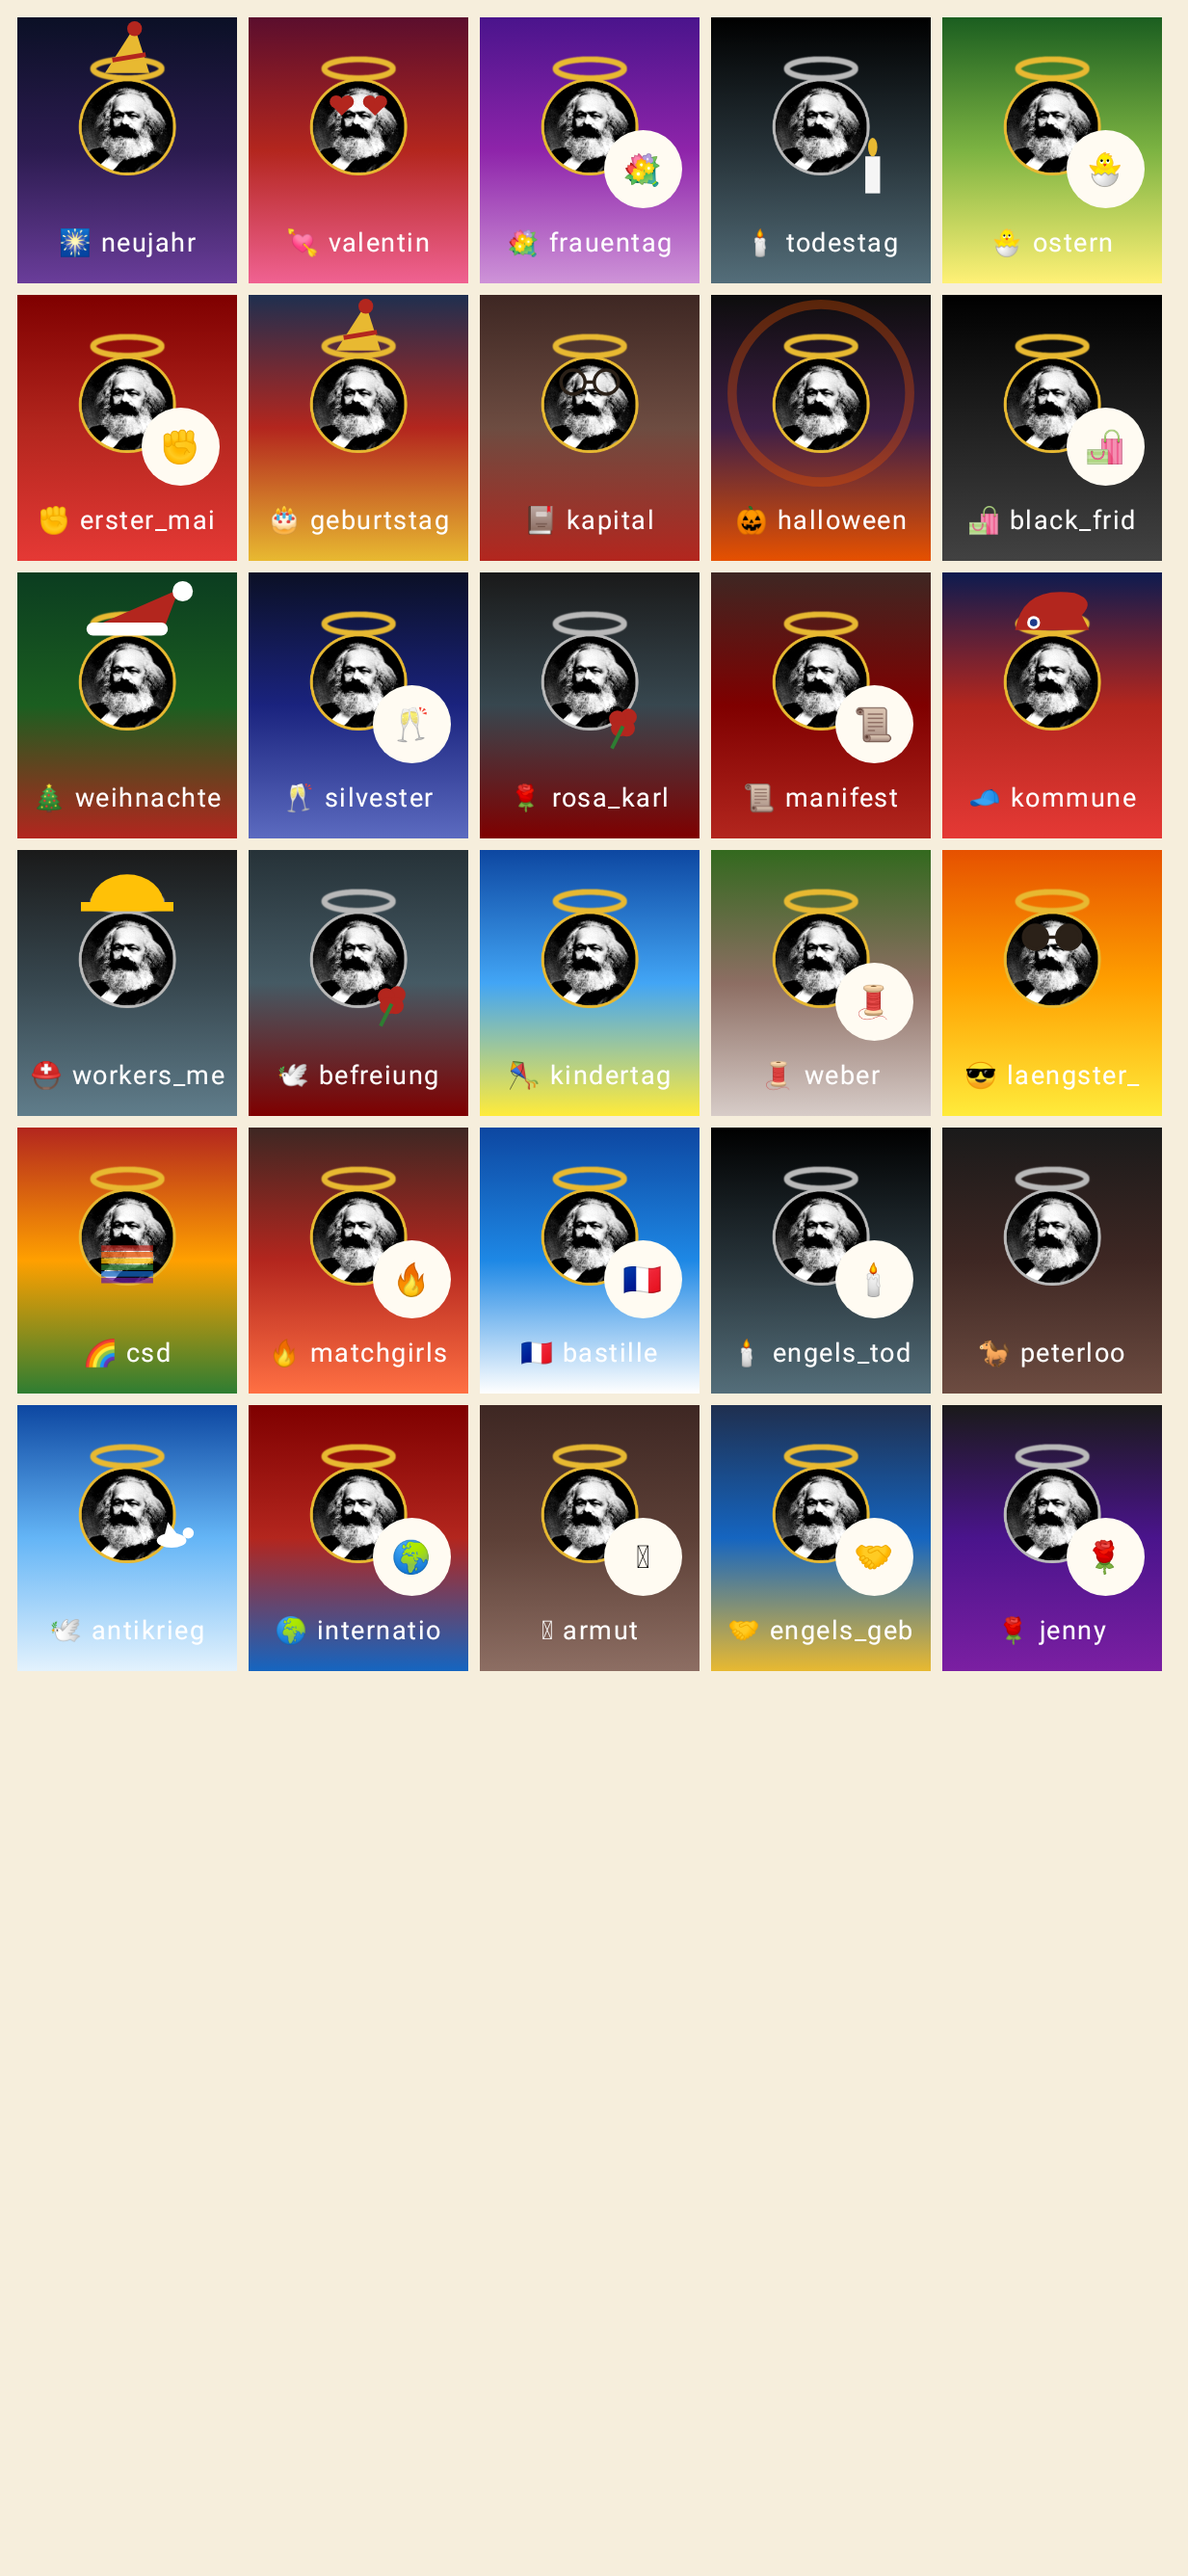
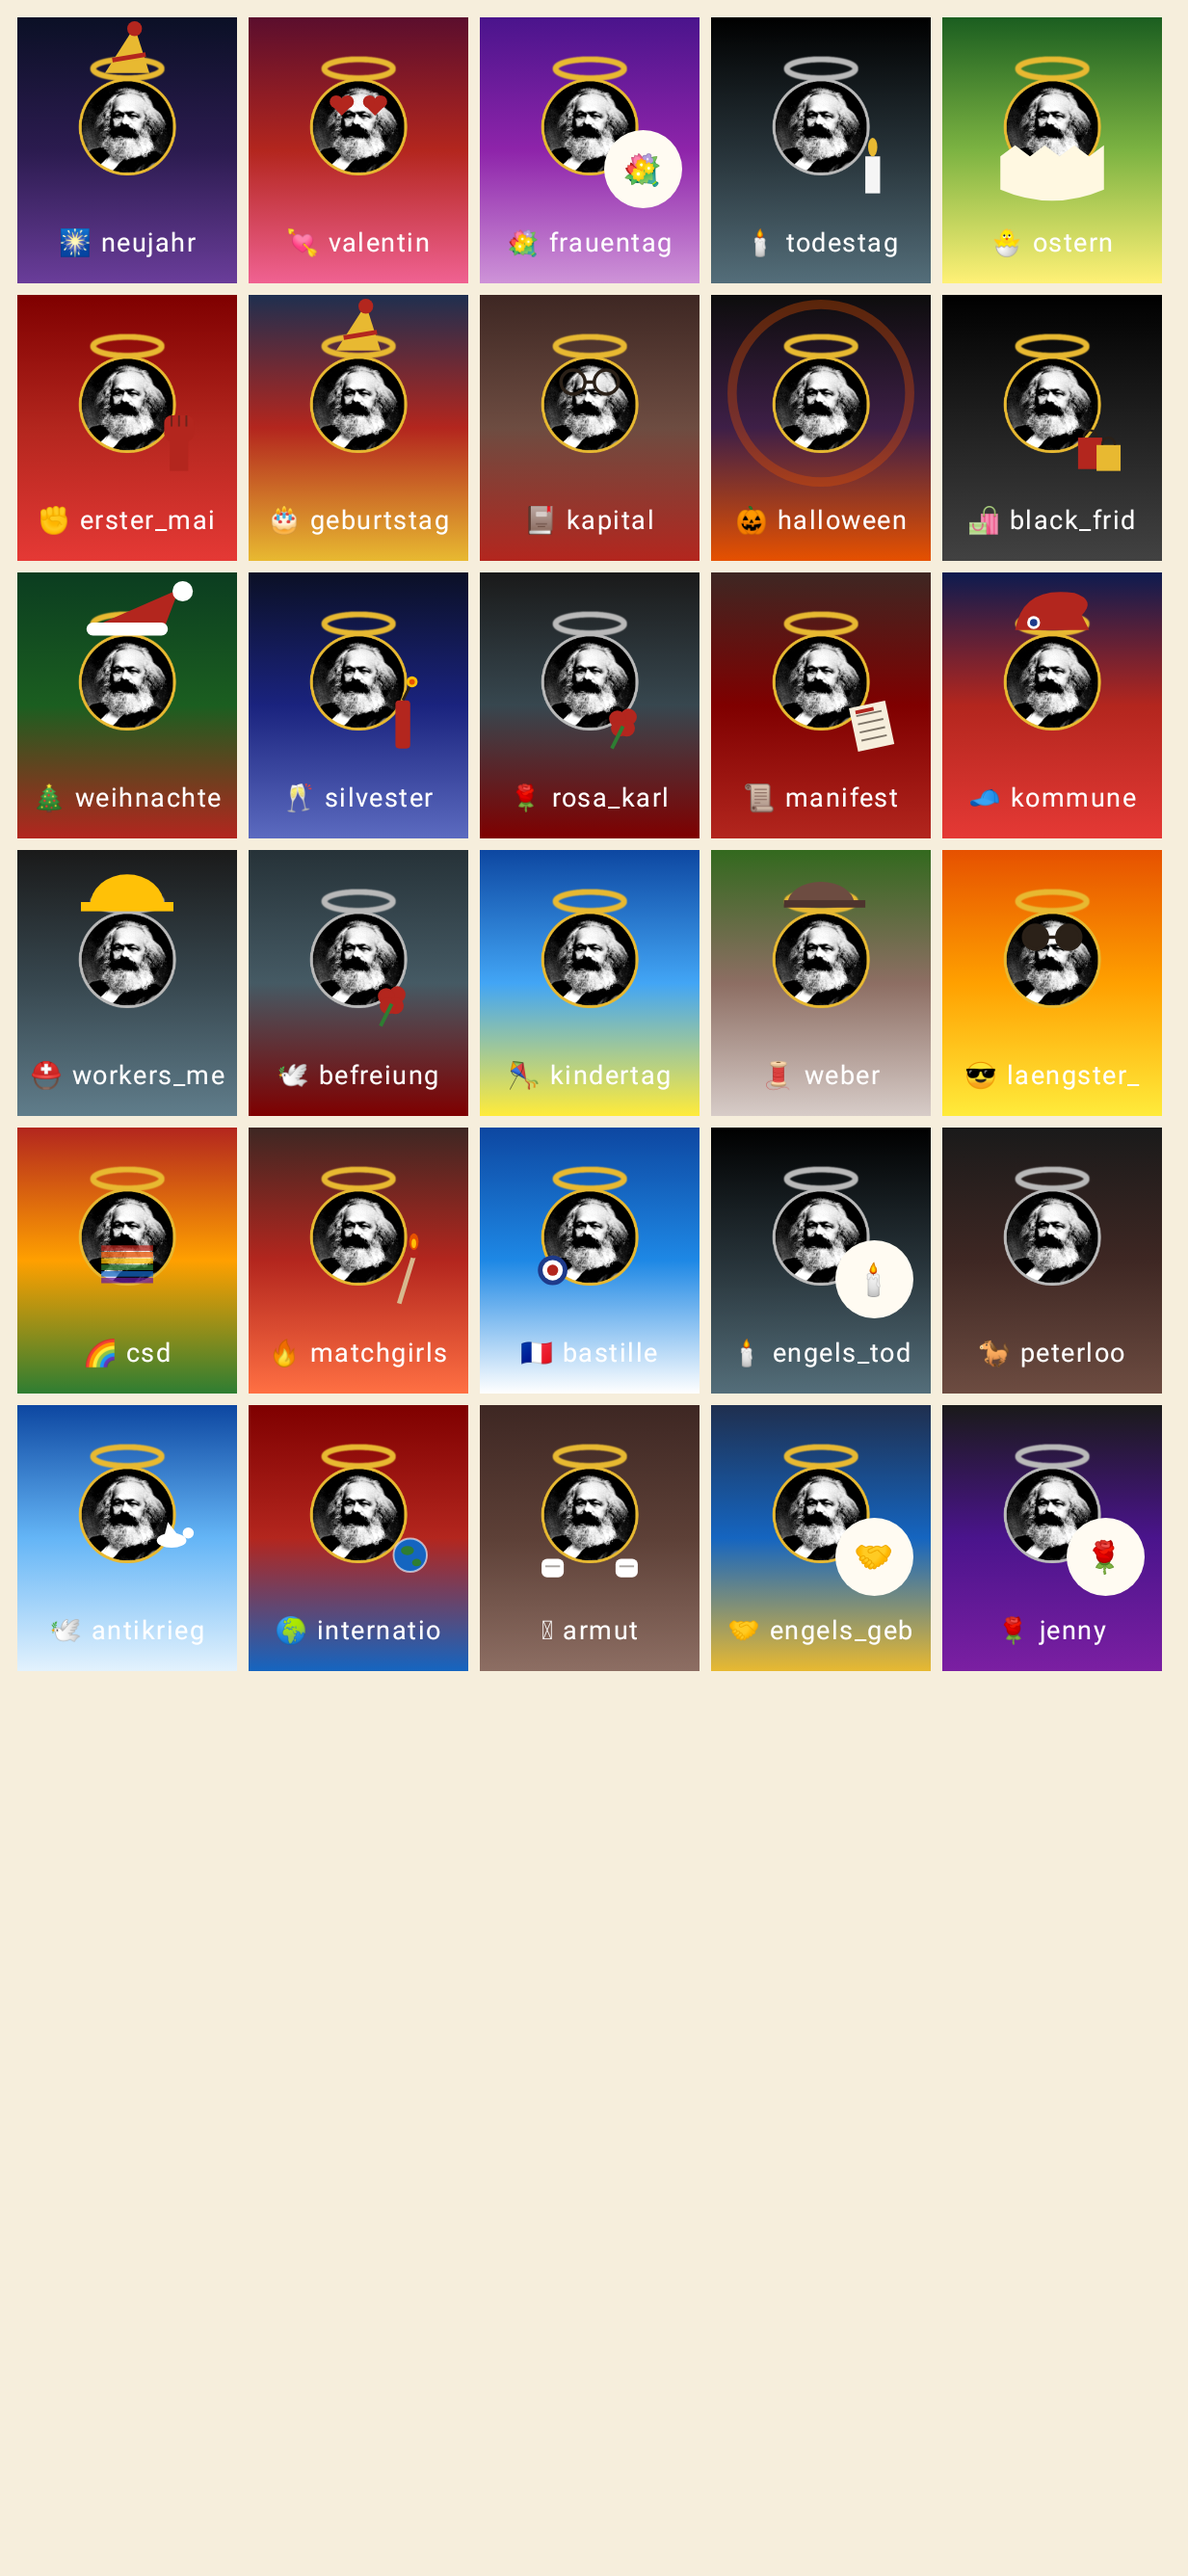
🧔 C3: +11 drawn head props (fist · dynamite · book · pamphlet · match · cockade · weaver cap · globe · pockets · bags · egg) · only guest faces stay tokens · feast_sheet

diff --git a/android/app/src/main/java/de/strix/marxversion/ui/ds/MarxHead.kt b/android/app/src/main/java/de/strix/marxversion/ui/ds/MarxHead.kt
@@ -20,6 +20,7 @@ import androidx.compose.ui.graphics.ColorMatrix
 import androidx.compose.ui.graphics.Path
 import androidx.compose.ui.graphics.drawscope.DrawScope
 import androidx.compose.ui.graphics.drawscope.Stroke
+import androidx.compose.ui.graphics.drawscope.rotate
 import androidx.compose.ui.res.painterResource
 import androidx.compose.ui.unit.Dp
 import androidx.compose.ui.unit.dp
@@ -51,7 +52,10 @@ fun MarxHead(feast: Feast?, modifier: Modifier = Modifier, size: Dp = 44.dp) {
 
 /** props drawn as vector overlay · rest = token disc */
 val DRAWN = setOf(Head.PARTY_HAT, Head.SANTA_HAT, Head.CARNATION, Head.PHRYGIAN, Head.HARD_HAT, Head.CANDLE,
-    Head.GLASSES, Head.HEART_GLASSES, Head.SUNGLASSES, Head.RAINBOW, Head.DOVE, Head.PUMPKIN)
+    Head.GLASSES, Head.HEART_GLASSES, Head.SUNGLASSES, Head.RAINBOW, Head.DOVE, Head.PUMPKIN,
+    // @1120 #206: + 11 more · only GUEST (Clara · Engels · Jenny = real faces) stays a token til art exists
+    Head.FIST, Head.DYNAMITE, Head.BOOK, Head.PAMPHLET, Head.MATCH, Head.COCKADE, Head.WEAVER_CAP, Head.GLOBE,
+    Head.POCKETS, Head.BAGS, Head.EGG)
 
 private val GOLD = Color(0xFFE8B931); private val RED = Color(0xFFB3261E); private val INK = Color(0xFF2B2118)
 private val WHITE = Color(0xFFFFFFFF); private val YELLOW = Color(0xFFFFC107); private val ORANGE = Color(0xFFE65100)
@@ -90,6 +94,33 @@ private fun DrawScope.prop(h: Head) {
         Head.DOVE -> { drawOval(WHITE, p(.66f, .66f), Size(w * .16f, w * .08f)); tri(p(.7f, .68f), p(.78f, .68f), p(.72f, .6f), WHITE)
             drawCircle(WHITE, w * .03f, p(.83f, .66f)) }
         Head.PUMPKIN -> drawCircle(ORANGE.copy(alpha = .35f), w * .48f, center, style = Stroke(w * .05f))
+        // ── @1120 #206 (props on th shoulder / crown, bottom-right = "held") ──
+        Head.FIST -> { drawRoundRect(RED, p(.7f, .62f), Size(w * .16f, w * .14f), androidx.compose.ui.geometry.CornerRadius(w * .04f))
+            repeat(3) { i -> drawLine(INK.copy(alpha = .5f), p(.74f + i * .04f, .62f), p(.74f + i * .04f, .68f), w * .01f) }
+            drawRect(RED, p(.73f, .76f), Size(w * .1f, w * .16f)) }
+        Head.DYNAMITE -> { drawRoundRect(RED, p(.7f, .66f), Size(w * .08f, w * .26f), androidx.compose.ui.geometry.CornerRadius(w * .02f))
+            drawLine(INK, p(.74f, .66f), p(.78f, .58f), w * .015f); drawCircle(YELLOW, w * .03f, p(.79f, .56f)); drawCircle(ORANGE, w * .015f, p(.79f, .56f)) }
+        Head.BOOK -> { drawRect(RED, p(.66f, .7f), Size(w * .22f, w * .16f)); drawRect(Color(0xFFF6EEDC), p(.68f, .72f), Size(w * .18f, w * .12f))
+            drawLine(RED, p(.77f, .72f), p(.77f, .84f), w * .012f) }
+        Head.PAMPHLET -> { rotate(-12f, p(.77f, .78f)) { drawRect(Color(0xFFF6EEDC), p(.67f, .68f), Size(w * .2f, w * .24f))
+            repeat(4) { i -> drawLine(INK.copy(alpha = .6f), p(.7f, .73f + i * .045f), p(.84f, .73f + i * .045f), w * .01f) }
+            drawLine(RED, p(.7f, .71f), p(.8f, .71f), w * .02f) } }
+        Head.MATCH -> { drawLine(Color(0xFFD7B98E), p(.72f, .92f), p(.8f, .66f), w * .025f); drawCircle(RED, w * .025f, p(.8f, .65f))
+            drawOval(ORANGE, p(.775f, .54f), Size(w * .05f, w * .09f)); drawOval(YELLOW, p(.787f, .57f), Size(w * .025f, w * .05f)) }
+        Head.COCKADE -> { drawCircle(Color(0xFF1E3A8A), w * .08f, p(.3f, .74f)); drawCircle(WHITE, w * .055f, p(.3f, .74f)); drawCircle(RED, w * .03f, p(.3f, .74f)) }
+        Head.WEAVER_CAP -> { drawArc(Color(0xFF6D4C41), 180f, 180f, true, p(.32f, .14f), Size(w * .36f, w * .24f))
+            drawRoundRect(Color(0xFF4E342E), p(.3f, .24f), Size(w * .44f, w * .04f)) }
+        Head.GLOBE -> { drawCircle(Color(0xFF1565C0), w * .09f, p(.78f, .78f)); drawOval(Color(0xFF2E7D32), p(.73f, .73f), Size(w * .07f, w * .05f))
+            drawOval(Color(0xFF2E7D32), p(.79f, .8f), Size(w * .05f, w * .04f)); drawCircle(WHITE.copy(alpha = .6f), w * .09f, p(.78f, .78f), style = Stroke(w * .01f)) }
+        Head.POCKETS -> listOf(.3f, .7f).forEach { x -> drawRoundRect(WHITE, p(x - .06f, .8f), Size(w * .12f, w * .1f),
+            androidx.compose.ui.geometry.CornerRadius(w * .03f)); drawLine(INK.copy(alpha = .4f), p(x - .04f, .84f), p(x + .04f, .84f), w * .01f) }
+        Head.BAGS -> { drawRect(RED, p(.64f, .74f), Size(w * .13f, w * .17f)); drawRect(GOLD, p(.74f, .78f), Size(w * .13f, w * .14f))
+            drawArc(INK, 180f, 180f, false, p(.67f, .7f), Size(w * .07f, w * .08f), style = Stroke(w * .012f))
+            drawArc(INK, 180f, 180f, false, p(.77f, .74f), Size(w * .07f, w * .08f), style = Stroke(w * .012f)) }
+        Head.EGG -> { // hatching: lower shell w zigzag edge around th chin
+            drawPath(Path().apply { moveTo(p(.22f, .72f).x, p(.22f, .72f).y)
+                listOf(.3f to .66f, .38f to .72f, .46f to .66f, .54f to .72f, .62f to .66f, .7f to .72f, .78f to .66f).forEach { (x, y) -> lineTo(p(x, y).x, p(x, y).y) }
+                lineTo(p(.78f, .9f).x, p(.78f, .9f).y); quadraticTo(p(.5f, 1.02f).x, p(.5f, 1.02f).y, p(.22f, .9f).x, p(.22f, .9f).y); close() }, Color(0xFFFFF8E1)) }
         else -> {}
     }
 }
